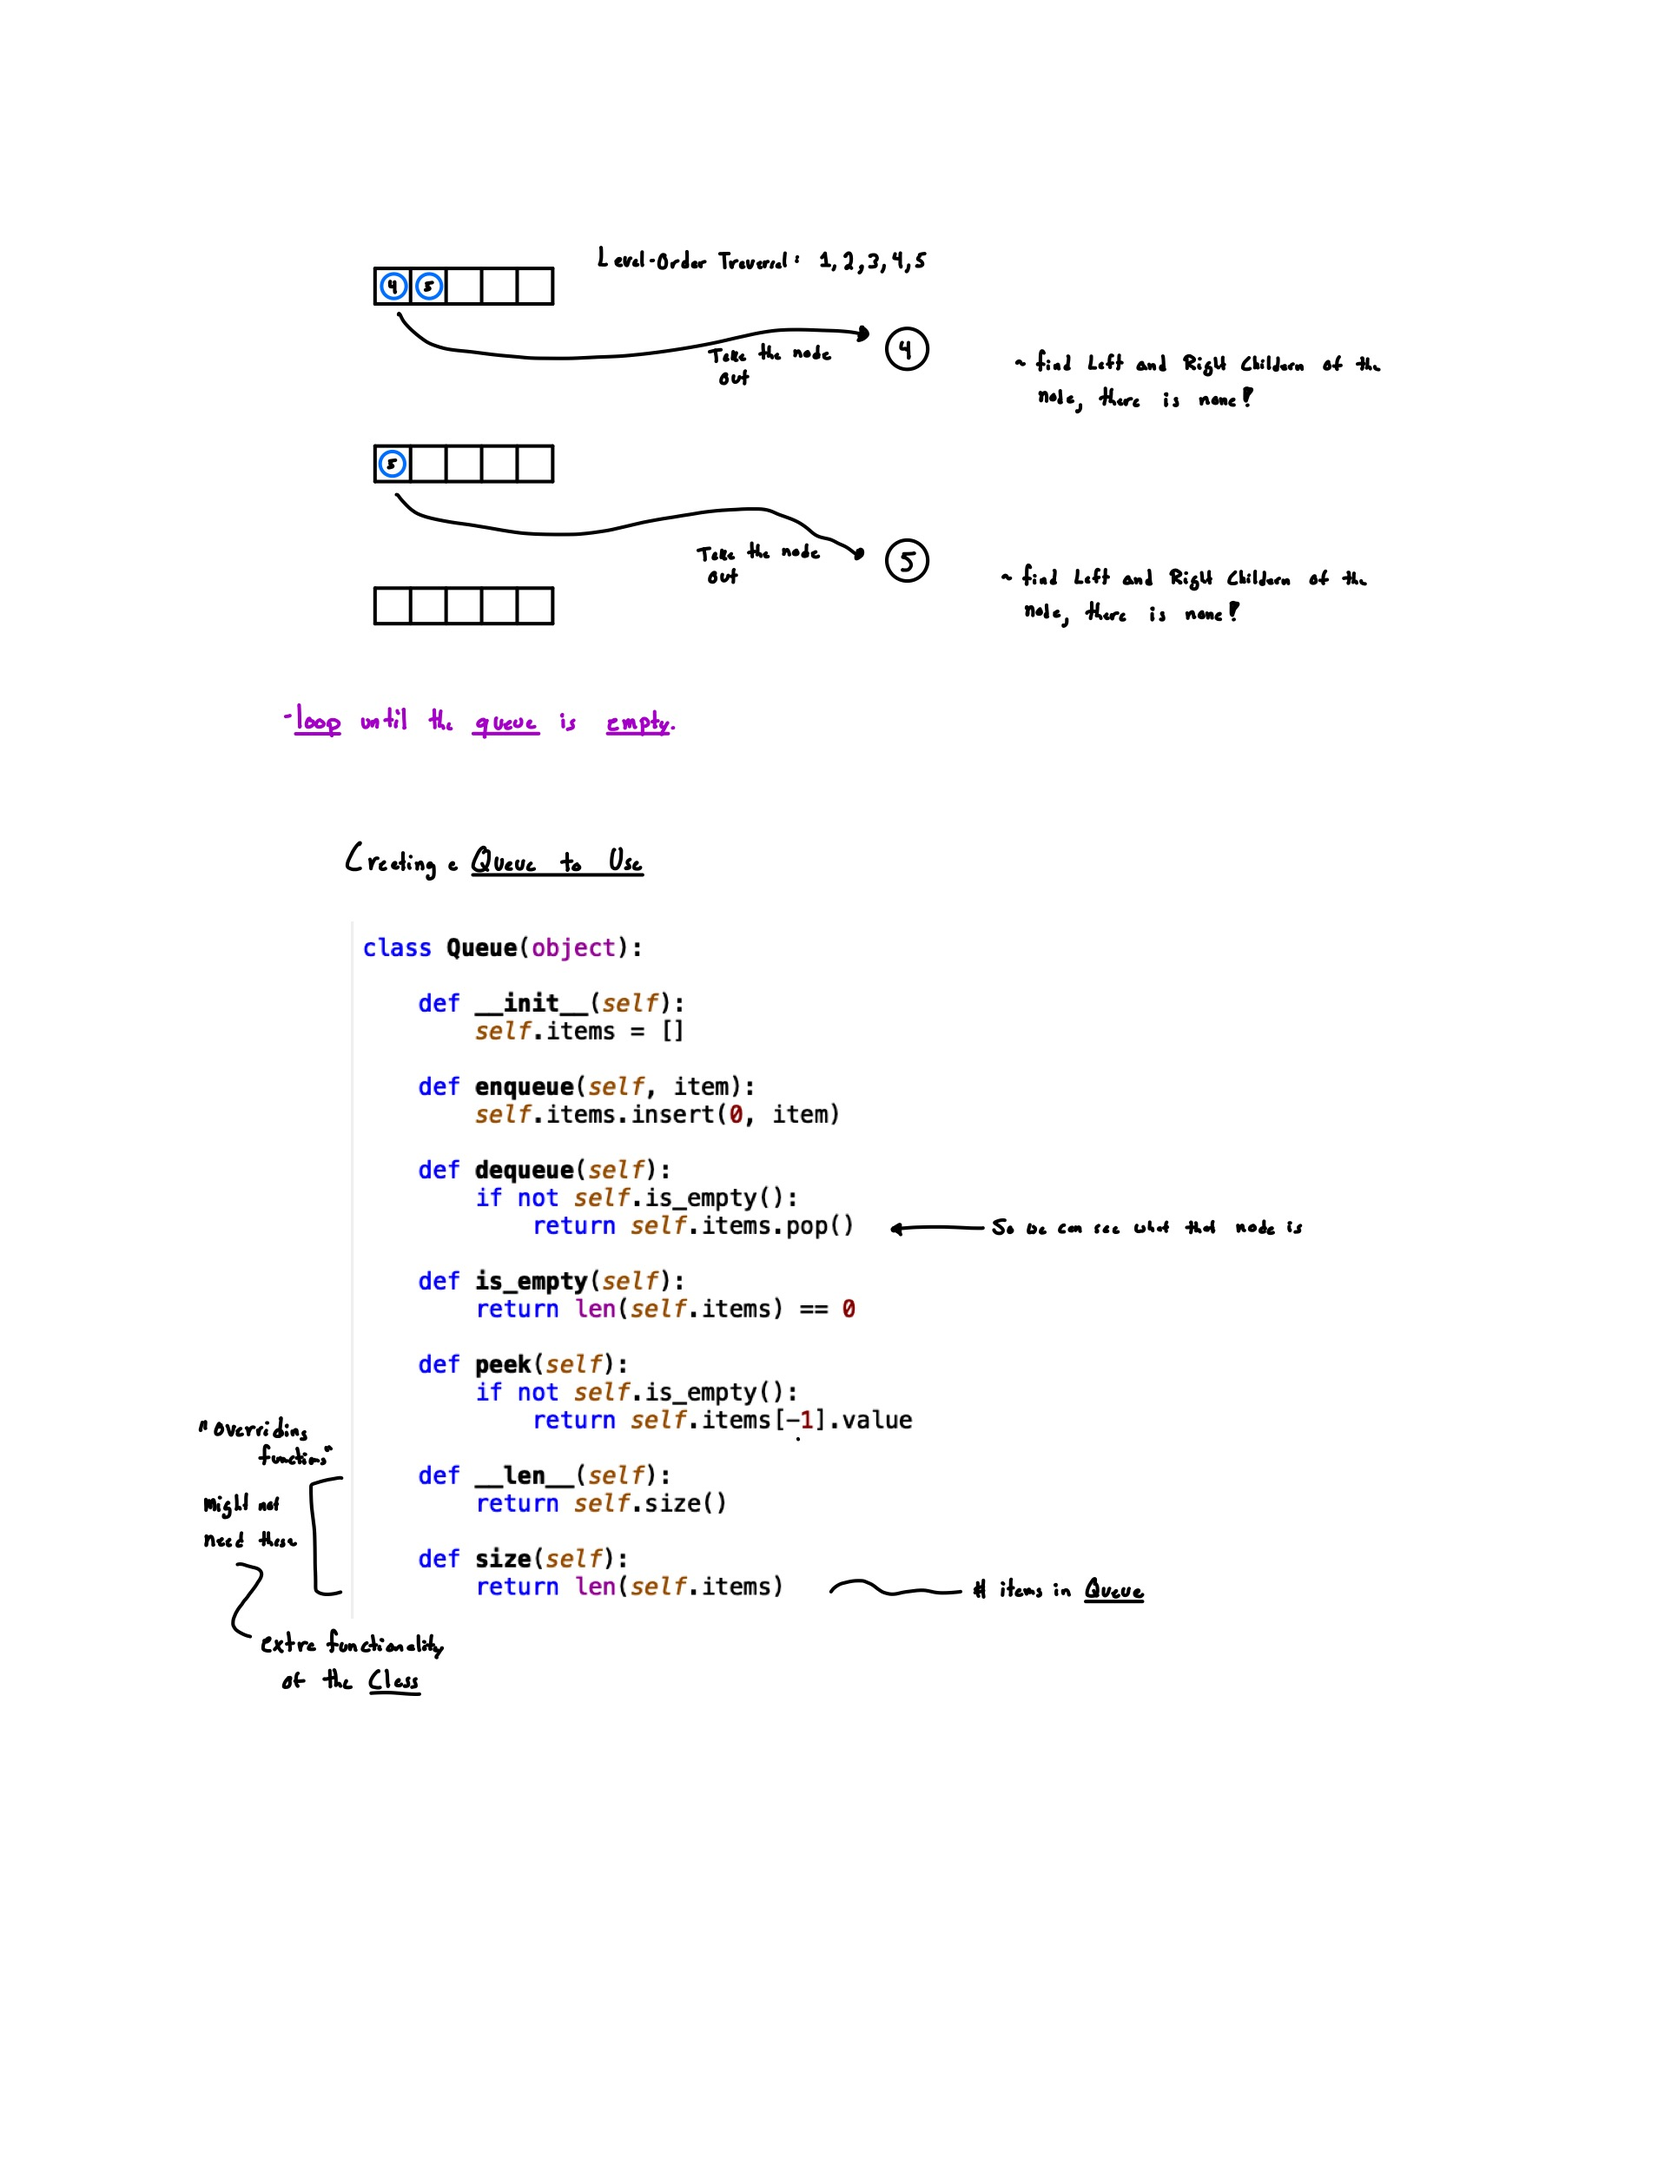
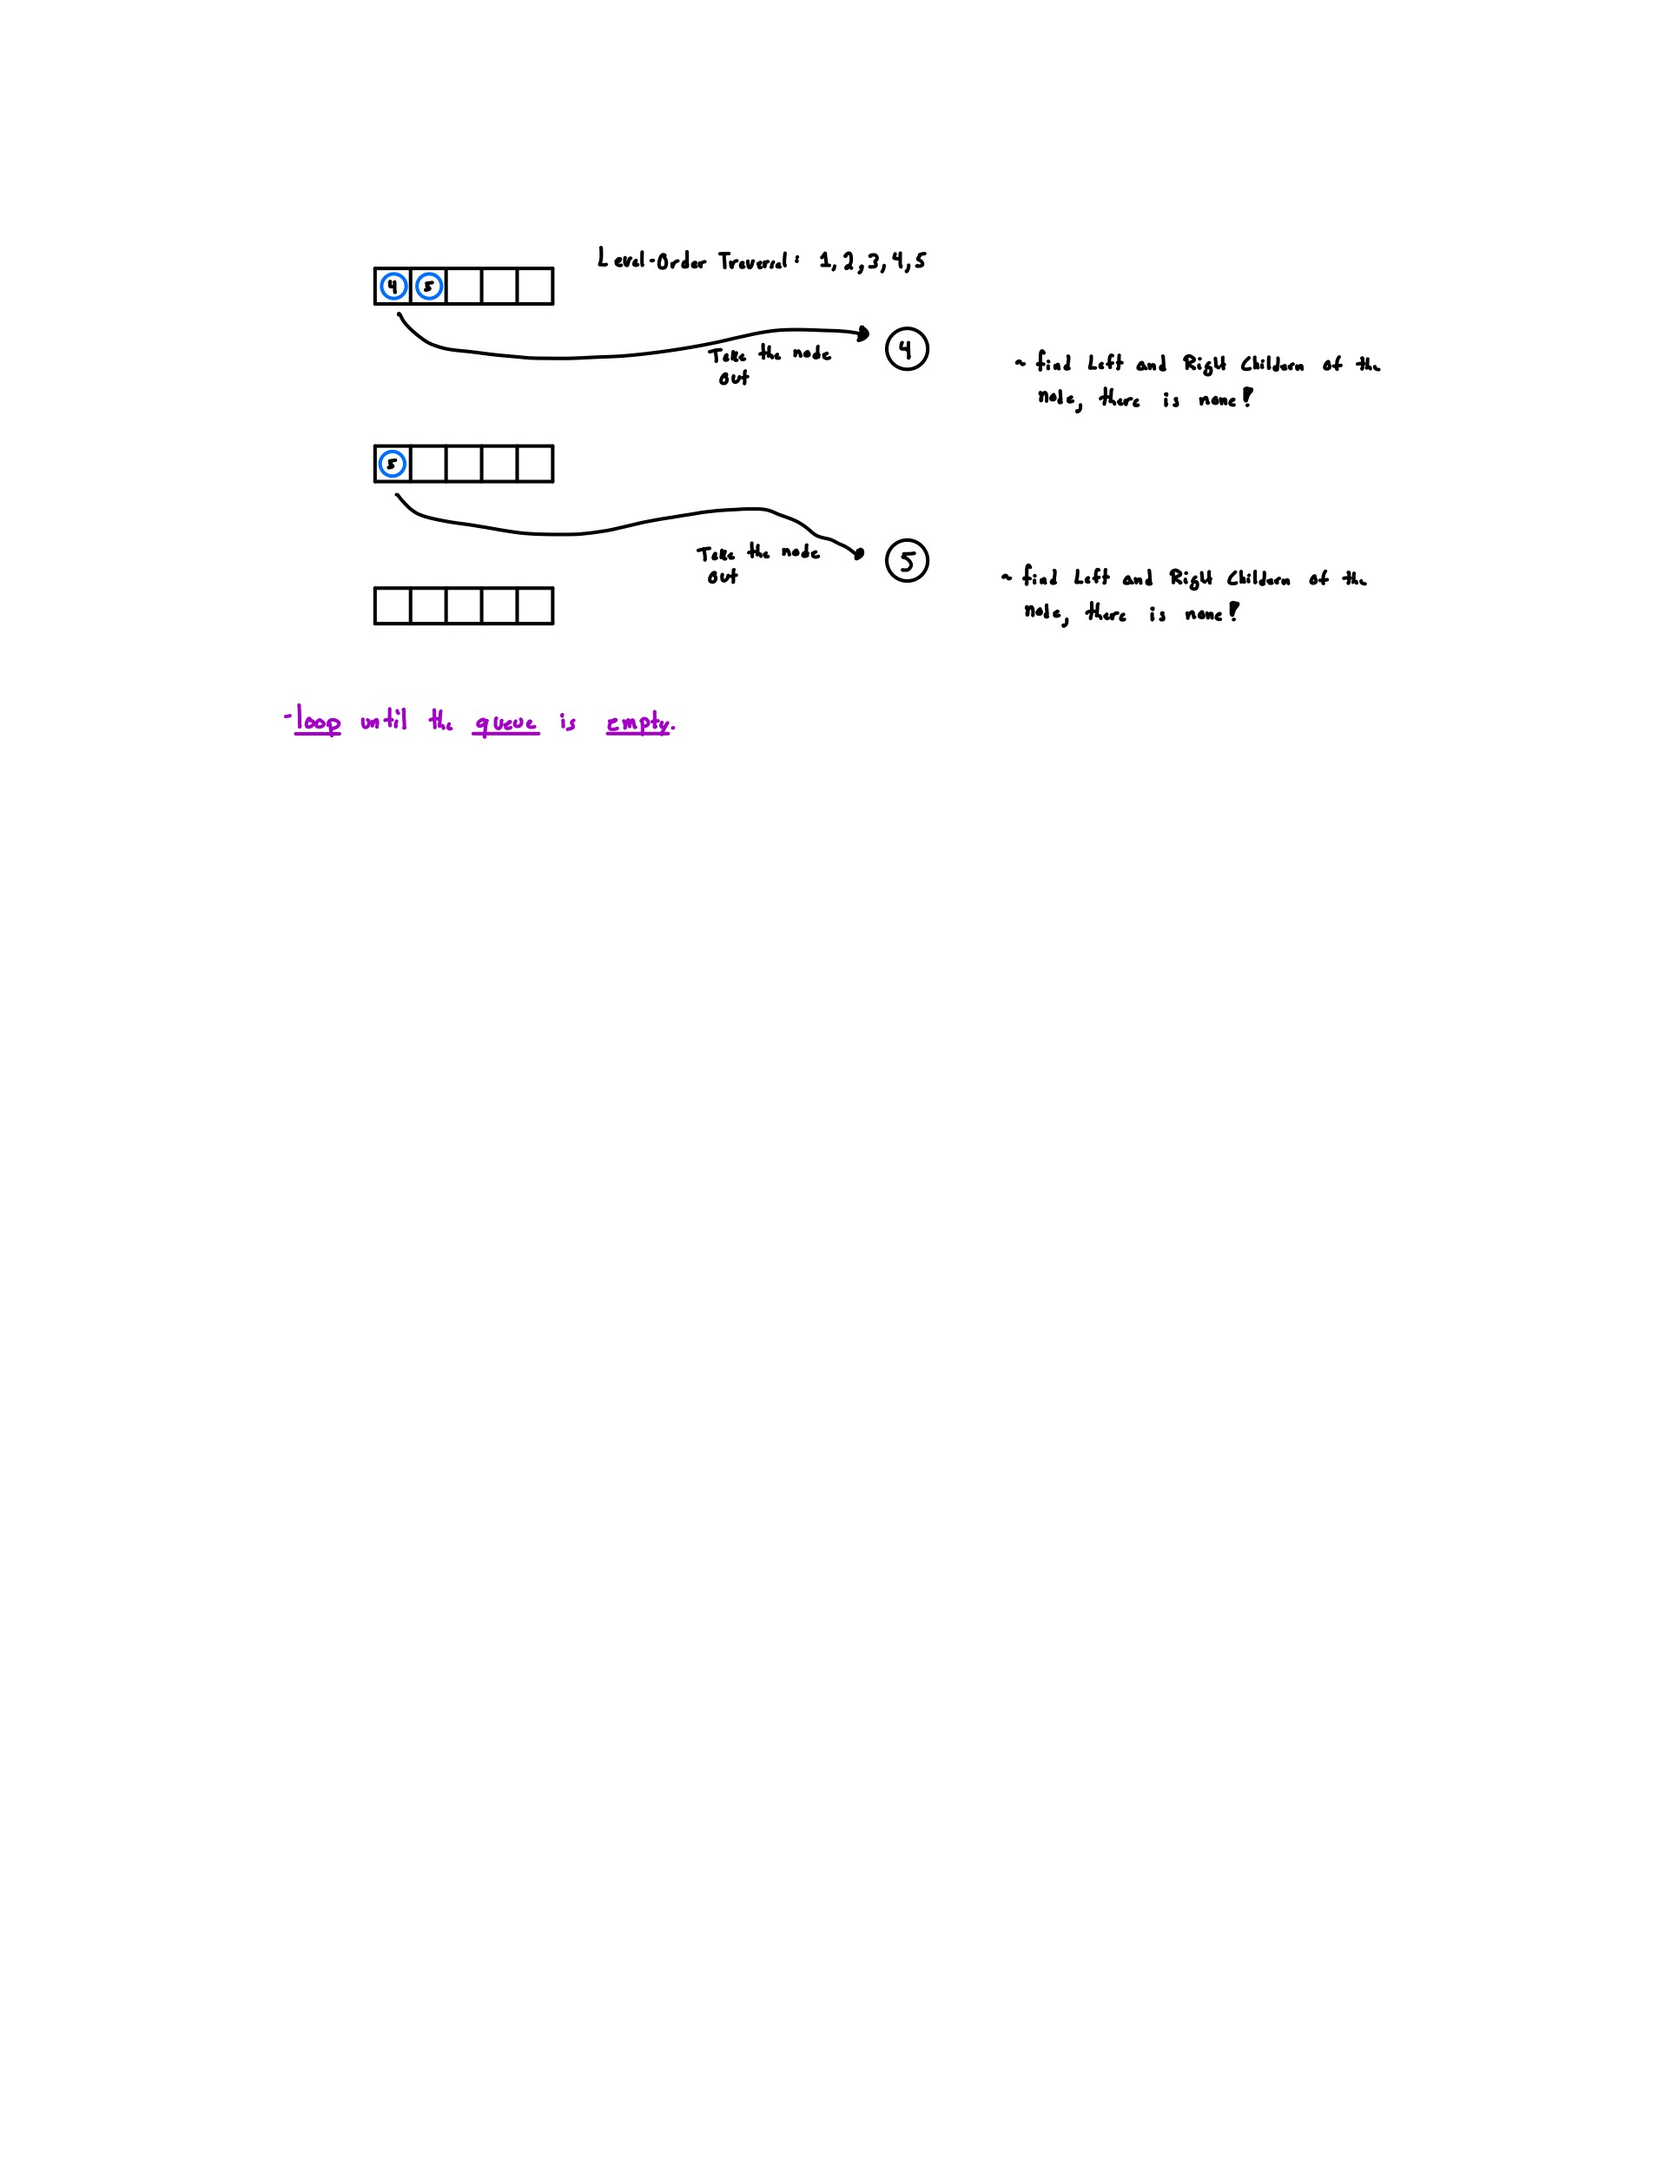
level ordertraversal

diff --git a/_pages/level_order.md b/_pages/level_order.md
@@ -1,0 +1,108 @@
+---
+layout: archive
+permalink: /algorithms/trees/level_order
+title: "Level-Order Tree Traversal"
+author_profile: true
+
+header:
+  image: "/images/chicagotwo.jpeg"
+  
+---
+
+![inserting an Image](/images/tree/level_order/Page1.jpg)
+![inserting an Image](/images/tree/level_order/Page2.jpg)
+![inserting an Image](/images/tree/level_order/Page3.jpg)
+![inserting an Image](/images/tree/level_order/Page4.jpg)
+
+
+Code:
+
+    class Queue(object):
+
+        def __init__(self):
+            self.items = []
+
+        def enqueue(self, item):
+            self.items.insert(0, item)
+
+        def dequeue(self):
+            if not self.is_empty():
+                return self.items.pop()
+
+        def is_empty(self):
+            return len(self.items) == 0
+
+        def peek(self):
+            if not self.is_empty():
+                return self.items[-1].value
+
+        def __len__(self):
+            return self.size()
+
+        def size(self):
+            return len(self.items)
+
+
+    class Node(object):
+
+        def __init__(self, value):
+            self.value = value
+            self.left = None
+            self.right = None
+
+    class BinaryTree(object):
+
+        def __init__(self, root):
+            self.root = Node(root)
+
+        def print_tree(self, traversal_type):
+
+            if traversal_type == "levelorder":
+
+                return self.levelorder_print(tree.root)
+
+            else:
+                print("Traversal type " + str(traversal_type) + " is not supported.")
+                return False
+
+        def levelorder_print(self, start):
+
+            if start is None:
+                return 
+
+            queue = Queue()
+
+
+            queue.enqueue(start)
+
+            print('Start Node is:', start.value)
+
+            traversal = ""
+
+            while len(queue) > 0:
+
+                traversal += str(queue.peek()) + "-"
+
+                node = queue.dequeue()
+
+                if node.left:
+
+                    queue.enqueue(node.left)
+
+                if node.right:
+
+                    queue.enqueue(node.right)
+
+            return traversal
+
+
+    tree = BinaryTree(1)
+    tree.root.left = Node(2)
+    tree.root.right = Node(3)
+    tree.root.left.left = Node(4)
+    tree.root.left.right = Node(5)
+
+    print(tree.print_tree("levelorder"))
+
+
+

diff --git a/_pages/trees.md b/_pages/trees.md
@@ -131,7 +131,8 @@ Depth-First or Breadth-First Order
 
 #### Breadth-First Order (or Level Order Traversal)
 
-- Level Order Traversal
+[Level Order Traversal](https://devintheengineer.com/algorithms/trees/level_order)
+
 - Reverse Level Order Traversal
 
 
